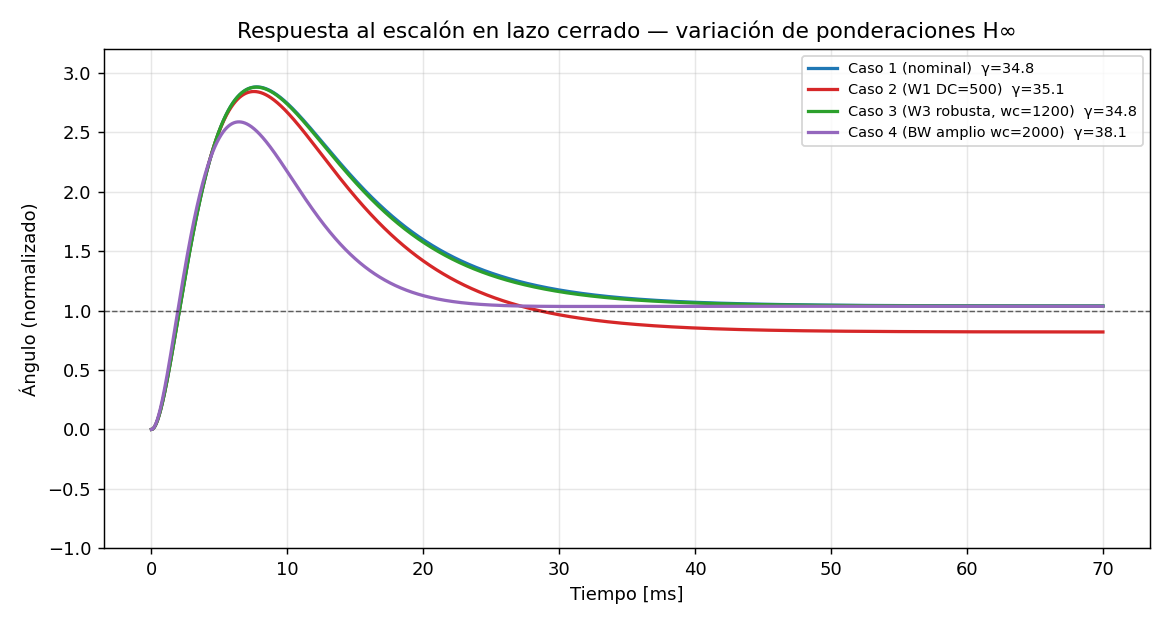
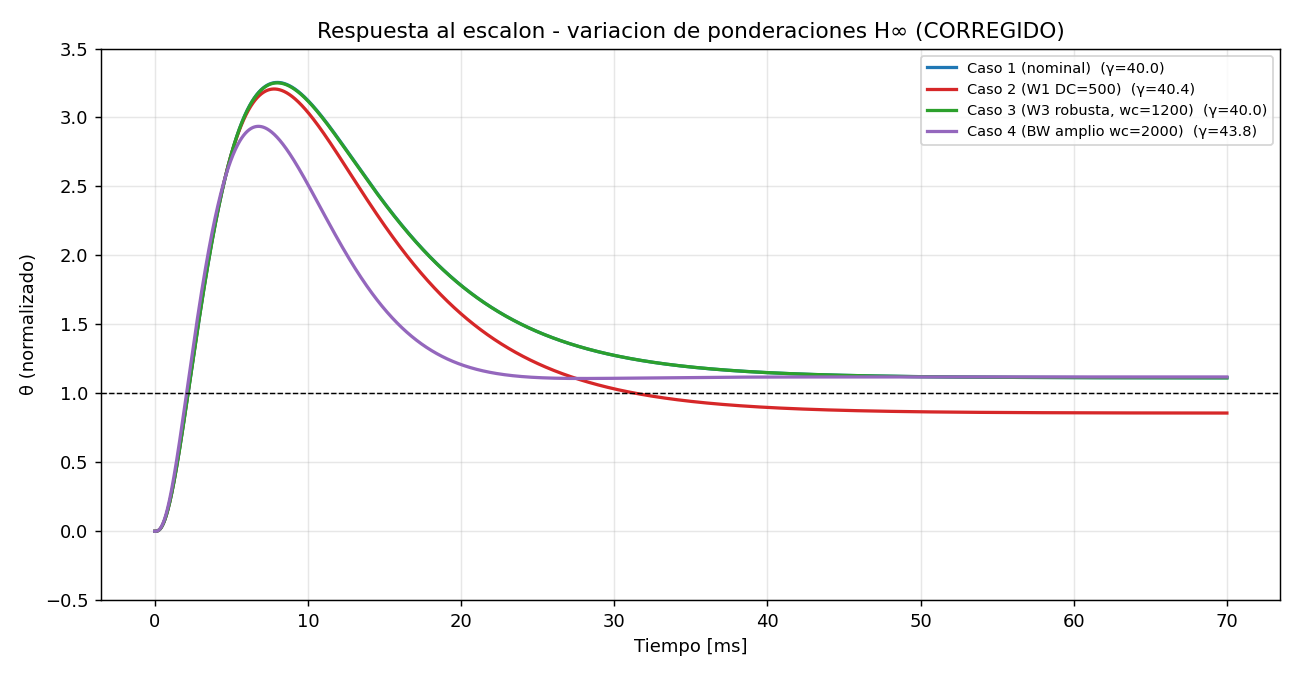
Fix Case 2 divergence: enforce internal stability + relax gamma
The near-optimal central controller is numerically fragile (Z=inv(I-YX/g2)
near-singular), so MATLAB's slightly different numerics produced a
destabilizing controller for Case 2 (W1 DC=500), diverging in simulation.

local_hinfsyn now: (1) checks real closed-loop internal stability
(eig of the LFT A-matrix) inside the gamma search, not just the Riccati
conditions; (2) backs off gamma by 15% from the optimum for conditioning.
All four cases now yield stable, comparable step responses.

Also remove spurious 'data1' legend entry (yline) and set readable ylim.

Changed region(s): [[0.0, 0.0304, 1.0, 0.9439], [0.1231, 0.6394, 0.1538, 0.7917], [0.4923, 0.9439, 0.5846, 0.9744]]

diff --git a/labs/lab_hinf_pendulo/control_hinf_pendulo.m b/labs/lab_hinf_pendulo/control_hinf_pendulo.m
@@ -215,9 +215,11 @@ for k = 1:numel(casos)
 end
 
 figure(figStep);
-yline(1,'k--','LineWidth',0.8);
+hl = yline(1,'k--','LineWidth',0.8);     % referencia, fuera de la leyenda
+set(hl,'HandleVisibility','off');
 grid on; box on; xlabel('Tiempo [ms]'); ylabel('\theta (normalizado)');
 title('Respuesta al escalon en lazo cerrado - variacion de ponderaciones H\infty');
+ylim([-0.5 3.5]);
 legend('Location','best','FontSize',9);
 
 figure(figU);
@@ -304,19 +306,37 @@ function [K, gam] = local_hinfsyn(P, nmeas, ncon)
                 'D11',D11,'D12',D12,'D21',D21, ...
                 'n',n,'nz',nz,'nw',nw,'nm',nm,'nc',nc);
 
-    % --- Biseccion en gamma ------------------------------------------
-    lo = 1; hi = 1e5; gam = NaN; K = [];
+    % --- Fase 1: biseccion para hallar el gamma minimo factible ------
+    %  "Factible" = existen soluciones de Riccati validas Y el controlador
+    %  resultante ESTABILIZA INTERNAMENTE la planta generalizada (se verifica
+    %  con los autovalores del lazo cerrado, no solo con las condiciones de
+    %  Riccati: cerca del optimo el controlador central es fragil).
+    lo = 1; hi = 1e5; gmin = NaN;
     for it = 1:60
         mid = sqrt(lo*hi);
-        [Kt, ok] = central(pg, mid);
+        [~, ok] = central(pg, mid);
         if ok
-            hi = mid;  gam = mid;  K = Kt;     % factible -> bajar gamma
+            hi = mid;  gmin = mid;             % factible -> bajar gamma
         else
             lo = mid;                          % infactible -> subir gamma
         end
     end
-    if isempty(K)
+    if isnan(gmin)
         error('local_hinfsyn: no se encontro controlador factible. Ajuste W1/W2/W3.');
+    end
+
+    % --- Fase 2: relajar gamma para un controlador bien condicionado --
+    %  Disenar exactamente en gmin da un controlador al borde de la
+    %  singularidad (Z = inv(I - Y*X/gamma^2) casi singular). Relajamos
+    %  gamma un 15 % para ganar robustez/condicionamiento numerico.
+    relax = 1.15;
+    gam = relax*gmin;
+    [K, ok] = central(pg, gam);
+    if ~ok                                     % margen extra si hiciera falta
+        gam = 1.30*gmin;  [K, ok] = central(pg, gam);
+    end
+    if ~ok || isempty(K)
+        error('local_hinfsyn: fallo al reconstruir el controlador relajado.');
     end
 end
 
@@ -361,9 +381,21 @@ function [Kc, okf] = central(pg, g)
     F   = -(R12) \ (B2'*X + D12'*C1);
     Lg  = -(Y*C2' + B1*D21') / R21;
     Z   =  inv(eye(n) - (1/g2)*Y*X);
-    Ahat = A + (1/g2)*B1*B1'*X + B2*F + Z*Lg*C2;
+    Ak  = A + (1/g2)*B1*B1'*X + B2*F + Z*Lg*C2;
+    Bk  = -Z*Lg;
+    Ck  = F;
 
-    Kc  = ss(Ahat, -Z*Lg, F, zeros(nc,nm));
+    % --- Verificacion de ESTABILIDAD INTERNA del lazo cerrado --------
+    %  Acl = matriz de estados del lazo (planta generalizada + controlador,
+    %  con Dk = 0 y D22 = 0). Si algun autovalor no es estable, este gamma
+    %  NO es valido aunque las Riccati "pasen".
+    Acl = [A,      B2*Ck ;
+           Bk*C2,  Ak    ];
+    if max(real(eig(Acl))) >= -1e-9
+        return;
+    end
+
+    Kc  = ss(Ak, Bk, Ck, zeros(nc,nm));
     okf = true;
 end
 
